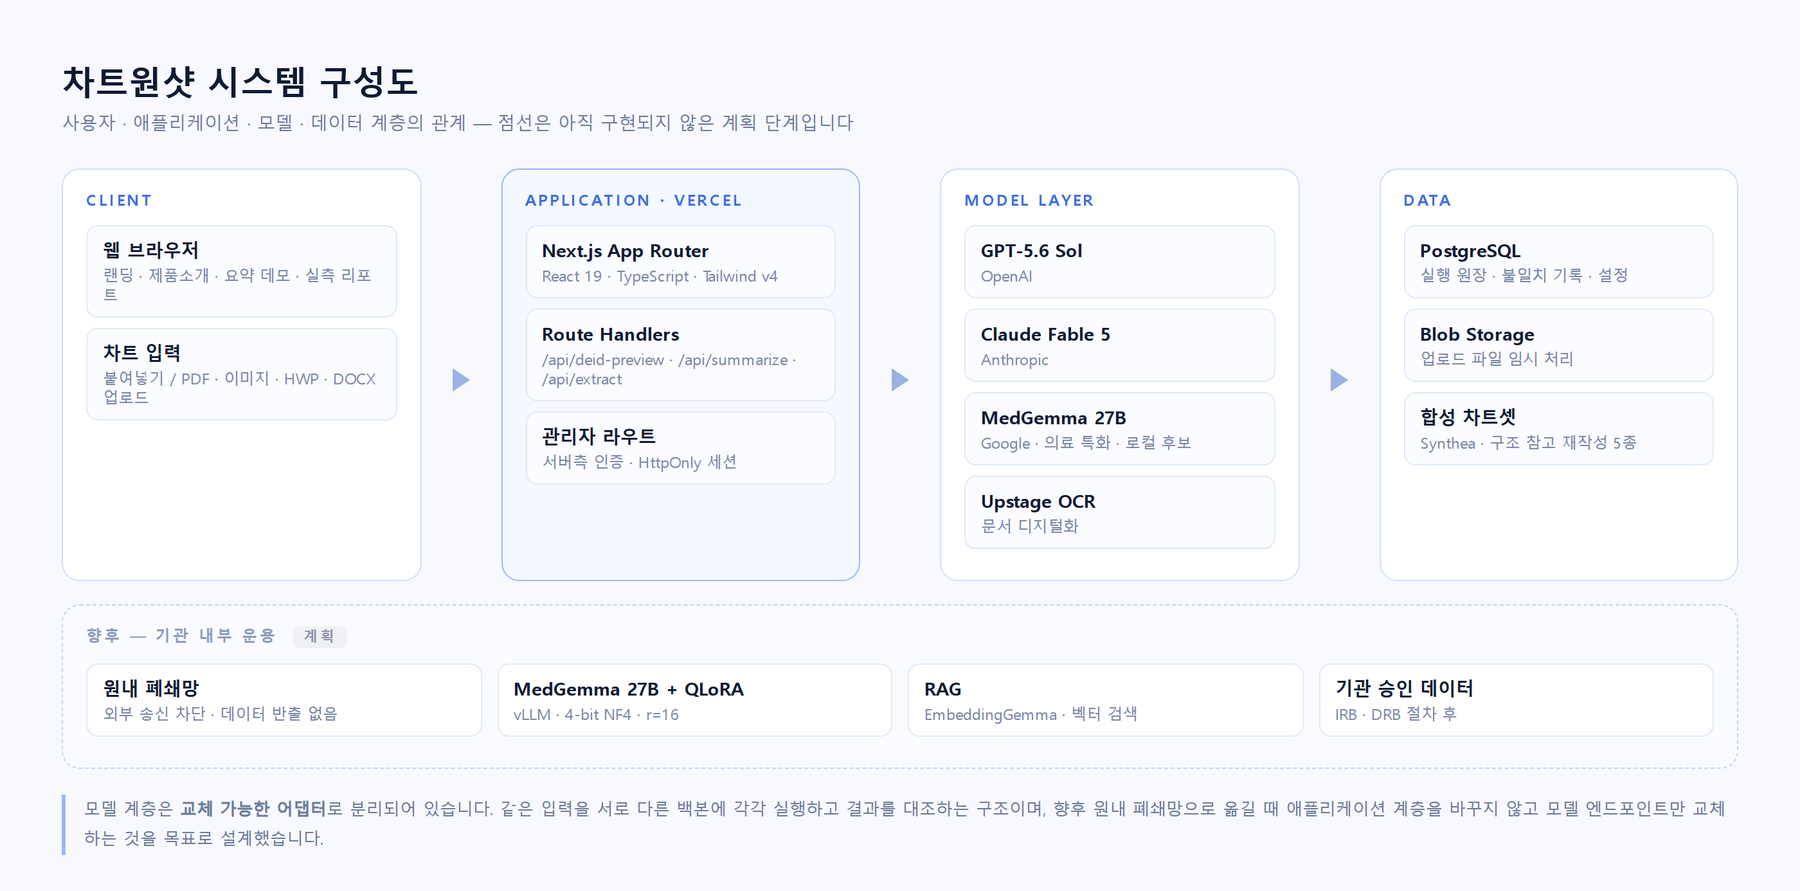
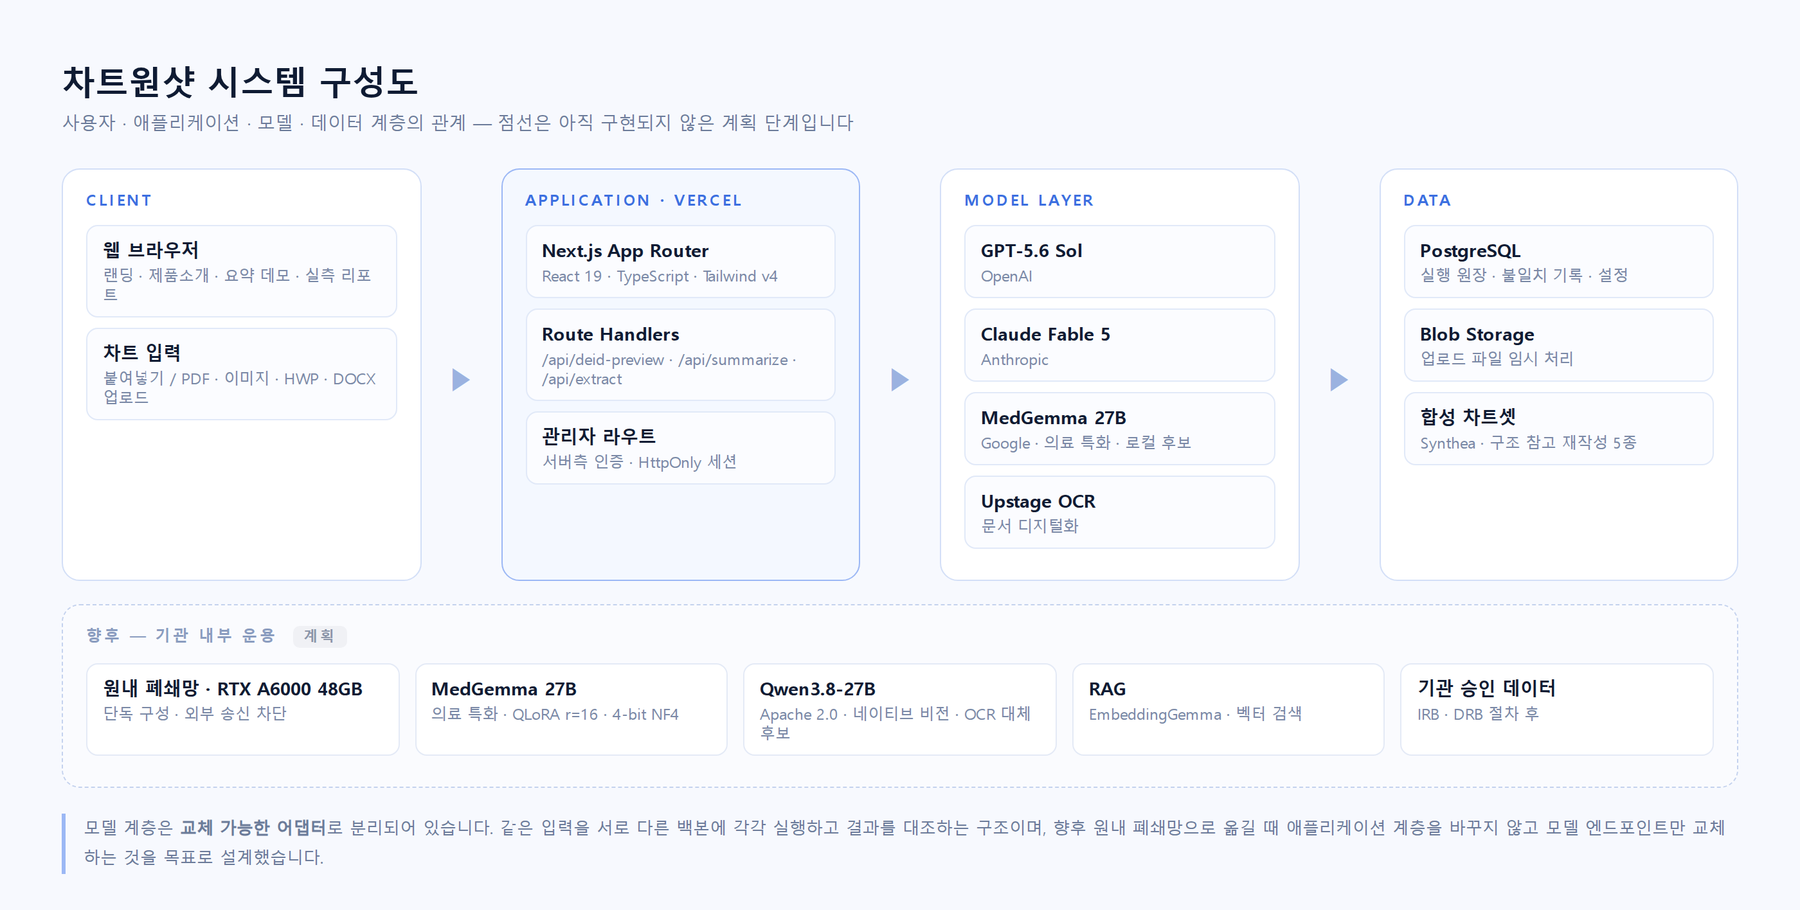
docs: 향후 계획 장(4장) 신설 — 온프렘 로드맵·QLoRA·Qwen3.8-27B·IRB·사업화
창업트랙 피드백 반영: "그동안 뭘 했는지"와 "앞으로의 비전"을 본문 전면에.

- 4장 신설 (기존 4~7장은 5~8장으로 이동, 템플릿 항목은 전부 유지)
  - 4.1 지금까지 만든 것 — 2026.05~08 타임라인
  - 4.2 기술 로드맵 4단계 (API → RAG → QLoRA SFT → DPO)
  - 4.3 QLoRA 근거 — B200급 확보 실패를 밝히고 A6000 48GB 단독 구성으로 재설계.
        4-bit NF4 + LoRA r=16, 학습/평가 데이터 분리, 어댑터 잔존 위험 통제
  - 4.4 온프렘 모델 후보 비교 — MedGemma 27B vs Qwen3.8-27B
        (Apache 2.0 · 27B dense · 262K ctx · 네이티브 비전 → OCR 단계 제거 가능)
  - 4.5 IRB 계획 — 심의 제출 단계임을 명시(승인 전), 2계층 정답셋·blind 작성·
        kappa 0.60·SEIG 루프·오류 5종 분류
  - 4.6 사업화 — 온프렘이 제약이 아니라 해자인 이유, 3단계 확산, 의료기기 아님
- 2.2 사용 기술에 온프렘 후보 2종 + A6000 단독 구성 명시
- 시스템 구성도 갱신 (A6000 · Qwen3.8-27B 추가)

사실 확인: Qwen3.8-27B 사양·라이선스는 공식 모델 카드(2026-08-24 확인) 기준.
미실현 사항은 전부 계획·목표·검토 시제로 기재.

diff --git a/README.md b/README.md
@@ -9,7 +9,8 @@
 기록에 없는 것은 지어내지 않고 **「기록 없음」으로 적습니다.**
 
 🔗 **Live · https://chartoneshot.com**
-🎬 **시연 영상 · [5. 소개 및 시연 영상](#5-소개-및-시연-영상)**
+🎬 **시연 영상 · [6. 소개 및 시연 영상](#6-소개-및-시연-영상)**
+🚀 **향후 계획 · [4. 기술 로드맵과 사업화](#4-향후-계획--기술-로드맵과-사업화)**
 
 <sub>제7회 PNU 창의융합AI해커톤 · 창업트랙 05조 · Team Golden Time · 부산대학교</sub>
 
@@ -70,7 +71,7 @@
 | **불확실성 노출** | 원문 / 추론 / 불확실을 구분 표시하고, 요약이 다루지 못한 부분을 별도로 모아 보여줍니다 |
 | **기록 없음 명시** | 근거가 없으면 추측하거나 공란으로 두지 않고 **「기록 없음」으로 적습니다** |
 | **감사 가능성** | 실행 기록·비용·불일치·실패를 원장에 남기고 공개합니다 |
-| **데이터 주권** | 장기적으로 기관 내부 폐쇄망에서 운용 가능한 구조로 이행 *(계획 단계)* |
+| **데이터 주권** | 기관 내부 폐쇄망에서 운용 가능한 구조로 이행 — RTX A6000 48GB 단독 구성 목표 *(계획 단계 · [4장](#4-향후-계획--기술-로드맵과-사업화))* |
 
 ### 1.3. 세부내용
 
@@ -171,7 +172,9 @@
 | 교차 검증 백본 ② | **Claude Fable 5** (Anthropic) |
 | 교차 검증 백본 ③ | **MedGemma 27B** (Google · 의료 특화 · 로컬 운용 후보) |
 | 문서 디지털화 | Upstage OCR |
-| 온프렘 계획 | MedGemma 27B + QLoRA(r=16, 4-bit NF4) · vLLM · RAG(EmbeddingGemma) |
+| 온프렘 후보 ① | **MedGemma 27B** — 의료 특화 |
+| 온프렘 후보 ② | **Qwen3.8-27B** — Apache 2.0 · 27B dense · 262K 컨텍스트 · 네이티브 비전 |
+| 온프렘 구성 | QLoRA(r=16, 4-bit NF4) · vLLM · RAG(EmbeddingGemma) · **RTX A6000 48GB 단독** |
 
 **AI 코딩 도구 (개발)**
 
@@ -330,9 +333,140 @@ HttpOnly 세션 쿠키를 사용합니다. 서버 환경변수 미설정 시 모
 
 ---
 
-## 4. 설치 및 사용 방법
+## 4. 향후 계획 — 기술 로드맵과 사업화
 
-### 4.1. 별도 설치 없이 바로 사용
+### 4.1. 지금까지 만든 것
+
+| 시기 | 한 일 |
+|---|---|
+| 2026.05 | 프로젝트 착수 · 제품 컨셉과 초기 UI |
+| 2026.06 | 의대 중간보고회 발표 · 기능명세 정리 |
+| 2026.07 | **검증·감사 하네스 구축** — 3-백본 교차검증 엔진, 불일치 추출, 실행 원장 DB, 관리자 컨트롤 플레인 |
+| 2026.07 | 비식별 처리 결함을 스스로 발견해 기록 공개 · **오류 주입 검증** 도입 |
+| 2026.08 | **실측 리포트 공개** — 실패한 실행과 지난 오판까지 게재 |
+| 2026.08 | 온프레미스 파이프라인 설계 · **IRB 연구계획서 작성** |
+
+3개월 동안 기능을 늘리기보다 **검증 장치를 늘렸습니다.** 가장 오래 붙든 것은
+인용 검증 게이트와 실행 원장이고, 그것이 지금 이 제품의 정체성입니다.
+
+### 4.2. 기술 로드맵 — 클라우드에서 원내 폐쇄망으로
+
+| 단계 | 내용 | 상태 |
+|---|---|---|
+| **Phase 1** | 상용 LLM API + 인용 강제 + 3-백본 오프라인 교차검증 | ✅ **동작 중** |
+| **Phase 2** | 원내 서버에서 **RAG + Few-shot** — 분과별 약어 사전·서식 사례를 검색으로 주입 | 설계 완료 |
+| **Phase 3** | **QLoRA SFT** — 분과별 요약 서식과 한국어 임상 표현을 어댑터로 학습 | 계획 |
+| **Phase 4** | **DPO** — 자문 교수 검수에서 나온 채택/반려 쌍으로 선호 학습 | 검토 |
+
+각 단계는 앞 단계를 대체하지 않고 **덧붙입니다.** RAG로 충분한 항목까지 파인튜닝하지
+않는 것이 원칙입니다 — 학습은 되돌리기 어렵고, 검색은 갈아끼울 수 있기 때문입니다.
+
+### 4.3. 왜 QLoRA인가 — 제약이 설계를 만들었습니다
+
+솔직하게 적습니다. **국가과제 단위의 대규모 GPU(B200급) 확보는 이번 범위에서
+이루지 못했습니다.** 그래서 **RTX A6000 48GB 한 장** 을 전제로 다시 설계했습니다.
+
+그런데 이 제약이 오히려 설계를 현실에 맞게 만들었습니다.
+
+> 병원이 AI를 들일 때 GPU 클러스터를 새로 구축하는 경우는 드뭅니다.
+> **서버 한 대, GPU 한 장.** 그 조건에서 27B급 모델이 돌아가야 실제로 도입됩니다.
+> B200에서만 되는 구성은 데모로는 좋아도 납품이 안 됩니다.
+
+**A6000 48GB 단독 구성 설계**
+
+| 항목 | 값 | 근거 |
+|---|---|---|
+| 양자화 | 4-bit NF4 | 27B 가중치 ≈ **15~17GB** — 48GB에 여유 있게 적재 |
+| 어댑터 | LoRA **r=16** | 전체 파라미터의 1% 미만만 학습 |
+| 파인튜닝 | QLoRA | 48GB 단일 GPU에서 **27B급 학습 가능** *(Dettmers et al., NeurIPS 2023)* |
+| 추론 | vLLM | 원내 단일 노드 서빙 |
+| 검색 | EmbeddingGemma + 벡터 DB | 학습 없이 갱신 가능한 지식은 여기로 |
+
+**학습 데이터 오염 방지** — 정확도 평가용 **정밀 정답셋은 학습에 넣지 않습니다.**
+학습에는 연구진이 작성한 확장 라벨셋만 쓰고, 두 집합을 물리적으로 분리해 관리합니다.
+
+**어댑터 정보 잔존 위험** — 환자 기록으로 학습한 LoRA 어댑터는 학습 문장을 일부
+기억할 수 있습니다. 어댑터를 **EMR과 같은 보안등급으로 취급**하고 외부 공개·배포를
+금지하며, 학습 직전 잔존 식별자 점검과 폐기 절차를 둡니다.
+
+### 4.4. 모델 선택 — MedGemma 27B와 Qwen3.8-27B
+
+원내에서 돌릴 후보 두 개를 같은 A6000 위에서 비교 검증할 계획입니다.
+
+| | **MedGemma 27B** | **Qwen3.8-27B** |
+|---|---|---|
+| 성격 | 의료 특화 | 범용 · 네이티브 비전-언어 |
+| 라이선스 | Health AI Developer Foundations 이용약관 | **Apache 2.0** |
+| 파라미터 | 27B dense | 27B dense |
+| 컨텍스트 | — | **262,144 토큰** (최대 100만까지 확장) |
+| 멀티모달 | 의료 영상 계열 | **이미지·영상 네이티브 이해** |
+| 현재 역할 | 교차검증 백본 ③ · 로컬 후보 | 도입 검토 |
+
+**Qwen3.8-27B를 후보에 올린 이유 네 가지**
+
+1. **Apache 2.0** — 사업화에 라이선스 제약이 없습니다. 같은 계열 플래그십인
+   Qwen3.8-Max(2.4T)는 Apache 2.0이 아닌 별도 라이선스로 배포돼 후보에서 제외했습니다.
+2. **27B dense** — 4-bit로 A6000 한 장에 올라갑니다. MedGemma와 **같은 체급이라
+   동일 하드웨어에서 교대 적재하며 직접 비교**할 수 있습니다.
+3. **네이티브 비전** — 지금 파이프라인은 스캔 차트를 외부 OCR로 텍스트화한 뒤 요약합니다.
+   비전 모델이 이미지를 직접 읽으면 **OCR 단계를 없앨 수 있고, 그만큼 외부 전송과
+   OCR 오류가 함께 사라집니다.** 폐쇄망 설계에서 특히 큰 이점입니다.
+4. **긴 컨텍스트** — 수년치 외래 기록을 잘라 넣지 않고 한 번에 넣는 실험이 가능합니다.
+
+> *Qwen3.8-27B 사양은 2026-08-24 기준 공식 모델 카드(huggingface.co/Qwen/Qwen3.8-27B)에서
+> 확인했습니다. 아직 **도입 검토 단계**이며 저희가 성능을 실측한 결과는 없습니다.*
+
+### 4.5. IRB · 실데이터 확보 계획
+
+지금까지의 모든 수치는 **합성 데이터** 기준입니다. 실제 임상 효용을 말하려면
+실데이터 검증이 필요하고, 그 전제가 IRB 승인입니다.
+
+**현재 상태 — 연구계획서를 작성해 의료기관 IRB 심의에 제출하는 단계입니다
+(2026년 8월 기준). 아직 승인 전이며, 승인 전까지는 합성 데이터만 사용합니다.**
+
+계획서에 담은 설계:
+
+| 항목 | 내용 |
+|---|---|
+| 대상 | **후향적 비식별 EMR** — 5개 분과, 분과당 100명 규모 |
+| 동의 | 서면동의 면제 요청 *(생명윤리법 제16조 제3항)* |
+| 처리 환경 | **원내 폐쇄망** · 비식별화 키 파일 분리 보관 · 데이터심의위원회(DRB) 별도 승인 |
+| 정답셋 | **2계층** — 정밀 정답셋(정확도 산출 전용) / 확장 라벨셋(학습 전용) |
+| 편향 통제 | 자문 교수가 **AI 출력을 보기 전에** 원문만으로 정답셋 작성(blind) |
+| 신뢰도 | 분과당 2인 이상 독립 작성 후 **Cohen's kappa** 산출, 0.60 미만이면 항목 정의 수정 |
+| 검수 절차 | **SEIG 루프** — 과제 한정 → 구조화 산출 → **반증 질의** → 근거 연결 |
+| 오류 분류 | 조작 / 누락 / **근거 없는 확신** / 개인정보 노출 / 편향 5종 |
+
+**승인 이후 목표** — 실데이터 기준 정확도·누락률과 **검토자 번복률**(의사가 실제로
+몇 번 고쳤는가)을 측정해, 지금 공개 중인 합성 데이터 수치와 나란히 게시하는 것입니다.
+
+### 4.6. 사업화 방향
+
+**시장의 구조적 특징** — 환자 데이터는 병원 밖으로 나갈 수 없습니다. 이것은 불편이
+아니라 **진입 조건**입니다. 클라우드 SaaS 형태의 의료 AI는 이 벽을 넘지 못하고,
+넘으려면 매번 기관별 심의를 거쳐야 합니다.
+
+**그래서 온프레미스가 제약이 아니라 해자입니다.** 저희는 처음부터 폐쇄망 이관을
+전제로 모델 계층을 어댑터로 분리했고, A6000 한 장에서 도는 구성을 목표로 잡았습니다.
+
+| 단계 | 내용 |
+|---|---|
+| **1. 원내 파일럿** | IRB 승인 후 1개 분과에서 실데이터 검증 · 번복률 측정 |
+| **2. 분과 확대** | 분과별 약어 사전과 요약 서식을 어댑터로 추가 |
+| **3. 다기관** | 기관마다 별도 어댑터 — 데이터는 각 기관에 남고 모델만 현지 학습 |
+
+**수익 모델(검토 중)** — 기관 단위 구축·라이선스형. 데이터가 기관을 벗어나지 않으므로
+사용량 과금형 SaaS와는 구조가 다릅니다.
+
+**규제** — 현 단계에서는 **의료기기로 개발하지 않습니다.** 최종 판단과 기록의 책임은
+의료진에게 있고, 저희는 근거를 정리해 보여주는 도구입니다. 향후 적용 범위가 넓어질 경우
+규제 경로는 별도로 검토해야 하며, 이는 아직 결정된 바 없습니다.
+
+---
+
+## 5. 설치 및 사용 방법
+
+### 5.1. 별도 설치 없이 바로 사용
 
 브라우저에서 **https://chartoneshot.com** 접속 → `Start` 또는 `지금 체험하기`
 
@@ -347,7 +481,7 @@ HttpOnly 세션 쿠키를 사용합니다. 서버 환경변수 미설정 시 모
 
 동작 확인 권장 브라우저: 최신 Chrome / Edge / Safari (데스크톱 화면 기준으로 설계)
 
-### 4.2. 이 저장소를 로컬에서 실행
+### 5.2. 이 저장소를 로컬에서 실행
 
 ```bash
 npm install
@@ -366,7 +500,7 @@ npm run dev        # http://127.0.0.1:3000
 
 ---
 
-## 5. 소개 및 시연 영상
+## 6. 소개 및 시연 영상
 
 **시연 영상 (2분 22초)**
 
@@ -395,7 +529,7 @@ npm run dev        # http://127.0.0.1:3000
 
 ---
 
-## 6. 팀 소개
+## 7. 팀 소개
 
 팀 이름 **Golden Time**은 응급의학의 골든타임에서 왔습니다.
 긴 기록을 읽느라 흘려보내는 시간이 환자의 골든타임을 깎아먹지 않게 하자는 뜻입니다.
@@ -413,7 +547,7 @@ npm run dev        # http://127.0.0.1:3000
 
 ---
 
-## 7. 해커톤 참여 후기
+## 8. 해커톤 참여 후기
 
 ### 팀 공통 — 이번 프로젝트에서 실제로 배운 것
 
